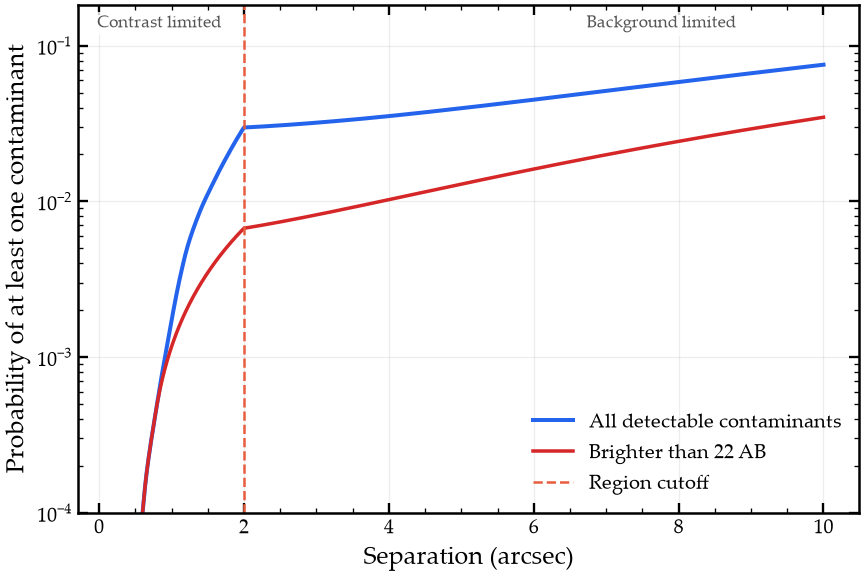
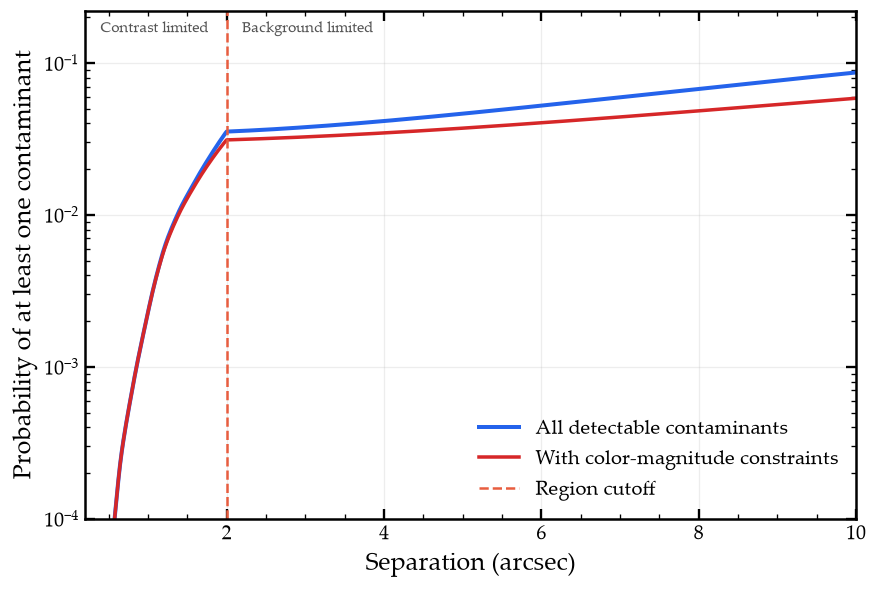
Fixed erroneous magnitude values

diff --git a/tests/test_pipeline.py b/tests/test_pipeline.py
@@ -7,6 +7,8 @@ import matplotlib.pyplot as plt
 import numpy as np
 
 from pipeline import (
+    CARTER_F444W_FIDUCIAL_APPARENT_MAG_AB,
+    CARTER_F444W_FIDUCIAL_DISTANCE_PC,
     calculate_contrastless_contamination,
     calculate_contamination,
     cmd_figure,
@@ -204,6 +206,8 @@ def test_plot_minimum_changes_view_without_truncating_calculation() -> None:
 
 def test_carter_rescaling_preserves_fiducial_and_background_floor() -> None:
     fiducial_delta = np.array([8.0, 10.0, 12.0], dtype=float)
+    fiducial_mag = CARTER_F444W_FIDUCIAL_APPARENT_MAG_AB
+    fiducial_distance = CARTER_F444W_FIDUCIAL_DISTANCE_PC
     (
         rescaled_delta,
         target_absolute,
@@ -211,10 +215,12 @@ def test_carter_rescaling_preserves_fiducial_and_background_floor() -> None:
         fiducial_background_limit,
         background_limit,
     ) = (
-        rescale_carter_f444w_curve(fiducial_delta, 9.76, 109.0)
+        rescale_carter_f444w_curve(fiducial_delta, fiducial_mag, fiducial_distance)
     )
     np.testing.assert_allclose(rescaled_delta, fiducial_delta)
-    np.testing.assert_allclose(target_absolute, 9.76 - 5.0 * np.log10(109.0 / 10.0))
+    np.testing.assert_allclose(
+        target_absolute, fiducial_mag - 5.0 * np.log10(fiducial_distance / 10.0)
+    )
     np.testing.assert_allclose(host_offset, 0.0, atol=1e-12)
 
     (
@@ -223,9 +229,9 @@ def test_carter_rescaling_preserves_fiducial_and_background_floor() -> None:
         _,
         shifted_fiducial_background_limit,
         shifted_background_limit,
-    ) = rescale_carter_f444w_curve(fiducial_delta, 11.76, 109.0)
-    shifted_limit = 11.76 + shifted_delta
-    assert shifted_limit[0] > 9.76 + fiducial_delta[0]
+    ) = rescale_carter_f444w_curve(fiducial_delta, fiducial_mag + 2.0, fiducial_distance)
+    shifted_limit = fiducial_mag + 2.0 + shifted_delta
+    assert shifted_limit[0] > fiducial_mag + fiducial_delta[0]
     np.testing.assert_allclose(shifted_limit[-1], shifted_background_limit)
     np.testing.assert_allclose(shifted_background_limit, background_limit)
     np.testing.assert_allclose(fiducial_background_limit, background_limit)
@@ -237,13 +243,13 @@ def test_carter_rescaling_preserves_fiducial_and_background_floor() -> None:
     custom_background = 25.0
     custom_delta, _, _, decomposition_floor, applied_floor = rescale_carter_f444w_curve(
         fiducial_delta,
-        9.76,
-        109.0,
+        fiducial_mag,
+        fiducial_distance,
         background_limit_mag=custom_background,
     )
     np.testing.assert_allclose(decomposition_floor, fiducial_background_limit)
     np.testing.assert_allclose(applied_floor, custom_background)
-    np.testing.assert_allclose(np.max(9.76 + custom_delta), custom_background)
+    np.testing.assert_allclose(np.max(fiducial_mag + custom_delta), custom_background)
 
 
 def test_carter_hip65426_regression() -> None:
@@ -254,12 +260,12 @@ def test_carter_hip65426_regression() -> None:
         radius,
         delta_mag,
         filter_name="f444w",
-        host_star_magnitude_ab=9.76,
+        host_star_magnitude_ab=CARTER_F444W_FIDUCIAL_APPARENT_MAG_AB,
         region_cutoff_arcsec=2.0,
         core_diameter_arcsec=0.2,
         max_radius_arcsec=10.0,
     )
-    assert 0.07 < result.probability[-1] < 0.08
+    assert 0.08 < result.probability[-1] < 0.09
     assert np.all(np.diff(result.probability) >= 0)
 
 

diff --git a/pipeline.py b/pipeline.py
@@ -29,9 +29,11 @@ plt.style.use(Path(__file__).with_name("mirage.mplstyle"))
 FILTERS = ("f115w", "f150w", "f200w", "f277w", "f356w", "f444w")
 CORE_DIAMETERS = (0.05, 0.1, 0.2, 0.3)
 ContrastKind = Literal["auto", "contrast", "delta_mag"]
-CARTER_F444W_FIDUCIAL_APPARENT_MAG_AB = 9.76
-CARTER_F444W_FIDUCIAL_ABSOLUTE_MAG_AB = 4.57
-CARTER_F444W_FIDUCIAL_DISTANCE_PC = 109.0
+# HIP 65426: m_F444W = 6.764 Vega (Carter et al. 2023, Table 3) + 3.25 AB-Vega,
+# at 107.49 pc (Carter et al. 2023, Sec. 1.2).
+CARTER_F444W_FIDUCIAL_APPARENT_MAG_AB = 10.014
+CARTER_F444W_FIDUCIAL_ABSOLUTE_MAG_AB = 4.857
+CARTER_F444W_FIDUCIAL_DISTANCE_PC = 107.49
 
 
 @dataclass(frozen=True)
@@ -186,7 +188,7 @@ def rescale_carter_f444w_curve(
         + 5.0 * np.log10(system_distance_pc / CARTER_F444W_FIDUCIAL_DISTANCE_PC)
     )
     # The quoted Carter absolute magnitude is rounded. Calibrate the
-    # absolute-magnitude/distance relation to the documented m_F444W=9.76
+    # absolute-magnitude/distance relation to the documented m_F444W=10.014
     # fiducial pair so it exactly reproduces the supplied digitized curve.
     fiducial_zero_offset = (
         CARTER_F444W_FIDUCIAL_ABSOLUTE_MAG_AB

diff --git a/app.py b/app.py
@@ -155,7 +155,10 @@ with st.sidebar.form("inputs"):
             ),
         )
         host_magnitude = st.number_input(
-            "Host-star apparent magnitude (AB)", value=9.76, step=0.05, format="%.3f"
+            "Host-star apparent magnitude (AB)",
+            value=CARTER_F444W_FIDUCIAL_APPARENT_MAG_AB,
+            step=0.05,
+            format="%.3f",
         )
     else:
         uploaded_curve = st.file_uploader(
@@ -174,7 +177,10 @@ with st.sidebar.form("inputs"):
         )
         contrastless_background_limit = None
         host_magnitude = st.number_input(
-            "Host-star apparent magnitude (AB)", value=9.76, step=0.05, format="%.3f"
+            "Host-star apparent magnitude (AB)",
+            value=CARTER_F444W_FIDUCIAL_APPARENT_MAG_AB,
+            step=0.05,
+            format="%.3f",
         )
     with st.expander("Color-magnitude constraints"):
         apply_cmd_constraint = st.checkbox(

diff --git a/README.md b/README.md
@@ -198,9 +198,10 @@ to that starting separation. Contrast-less mode instead includes radius zero exp
 ## Fiducial Carter F444W curve
 
 Selecting **Use fiducial Carter F444W curve** fixes the filter to F444W and
-provides the Carter et al. (2023) curve. The code first uses the Carter magnitude
-`m_F444W = 9.76` AB at 109 pc, corresponding to the quoted absolute magnitude
-4.57 AB. It identifies the faintest point of the magnitude limit curve as the
+provides the Carter et al. (2023) curve. The code first uses the HIP 65426
+magnitude `m_F444W = 6.764` Vega (Carter et al. 2023, Table 3), or 10.014 AB
+with an AB-minus-Vega offset of 3.25 mag, at 107.49 pc, corresponding to an
+absolute magnitude of 4.857 AB. It identifies the faintest point of the magnitude limit curve as the
 fiducial background limit, converts the total limit and background limit to
 flux, and subtracts the background flux to obtain the host-dependent residual.
 That residual is scaled by the target host's apparent-flux offset, the selected
